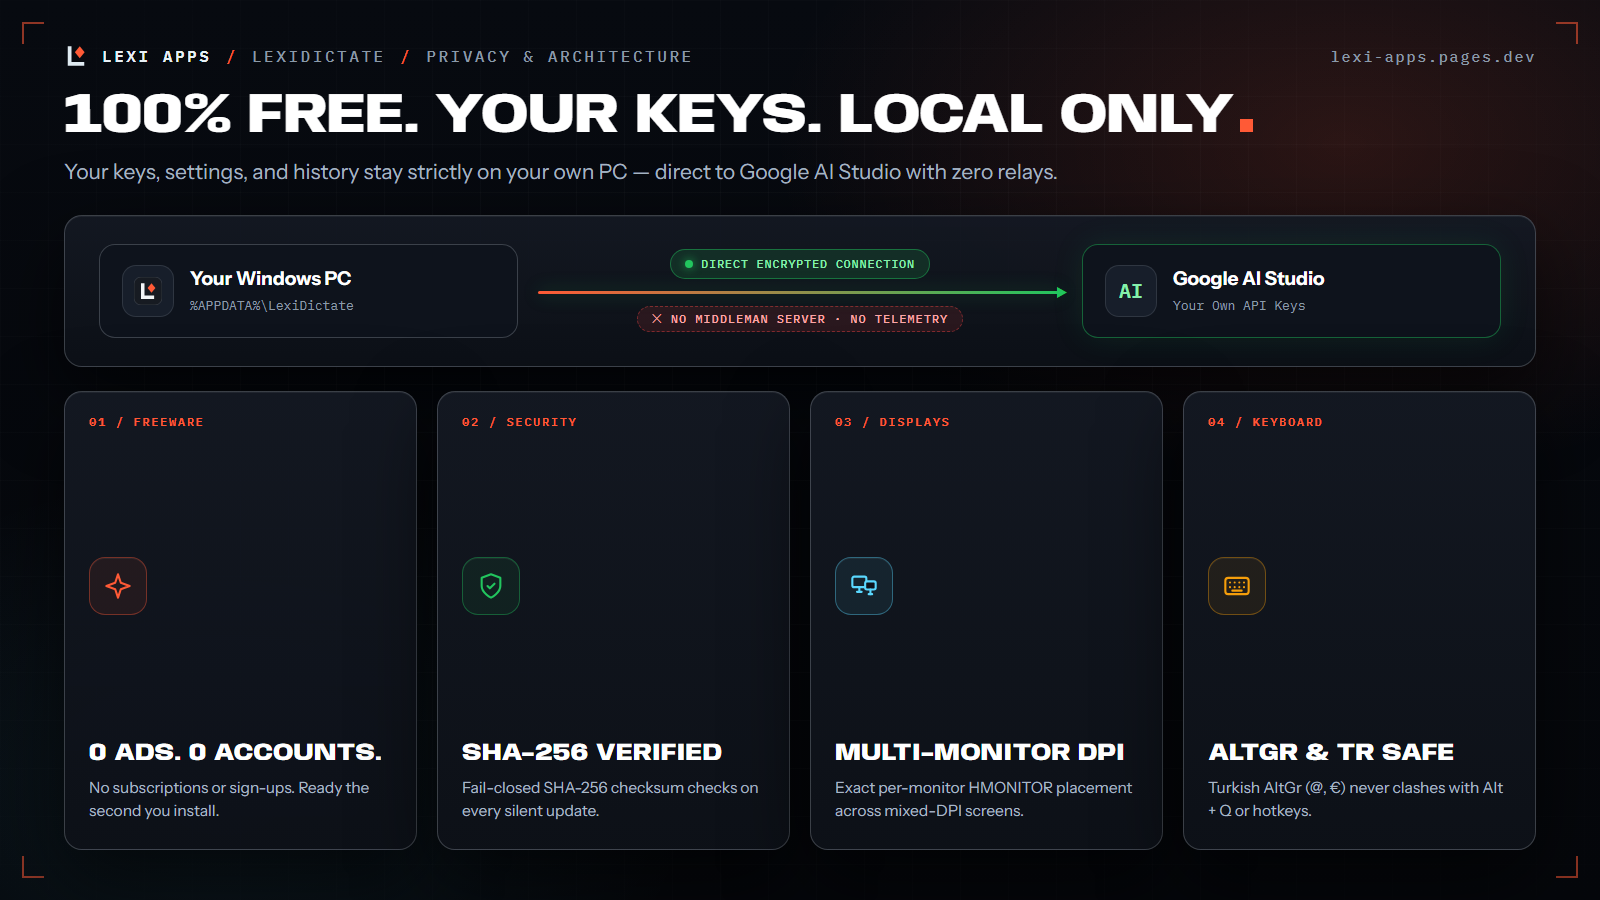
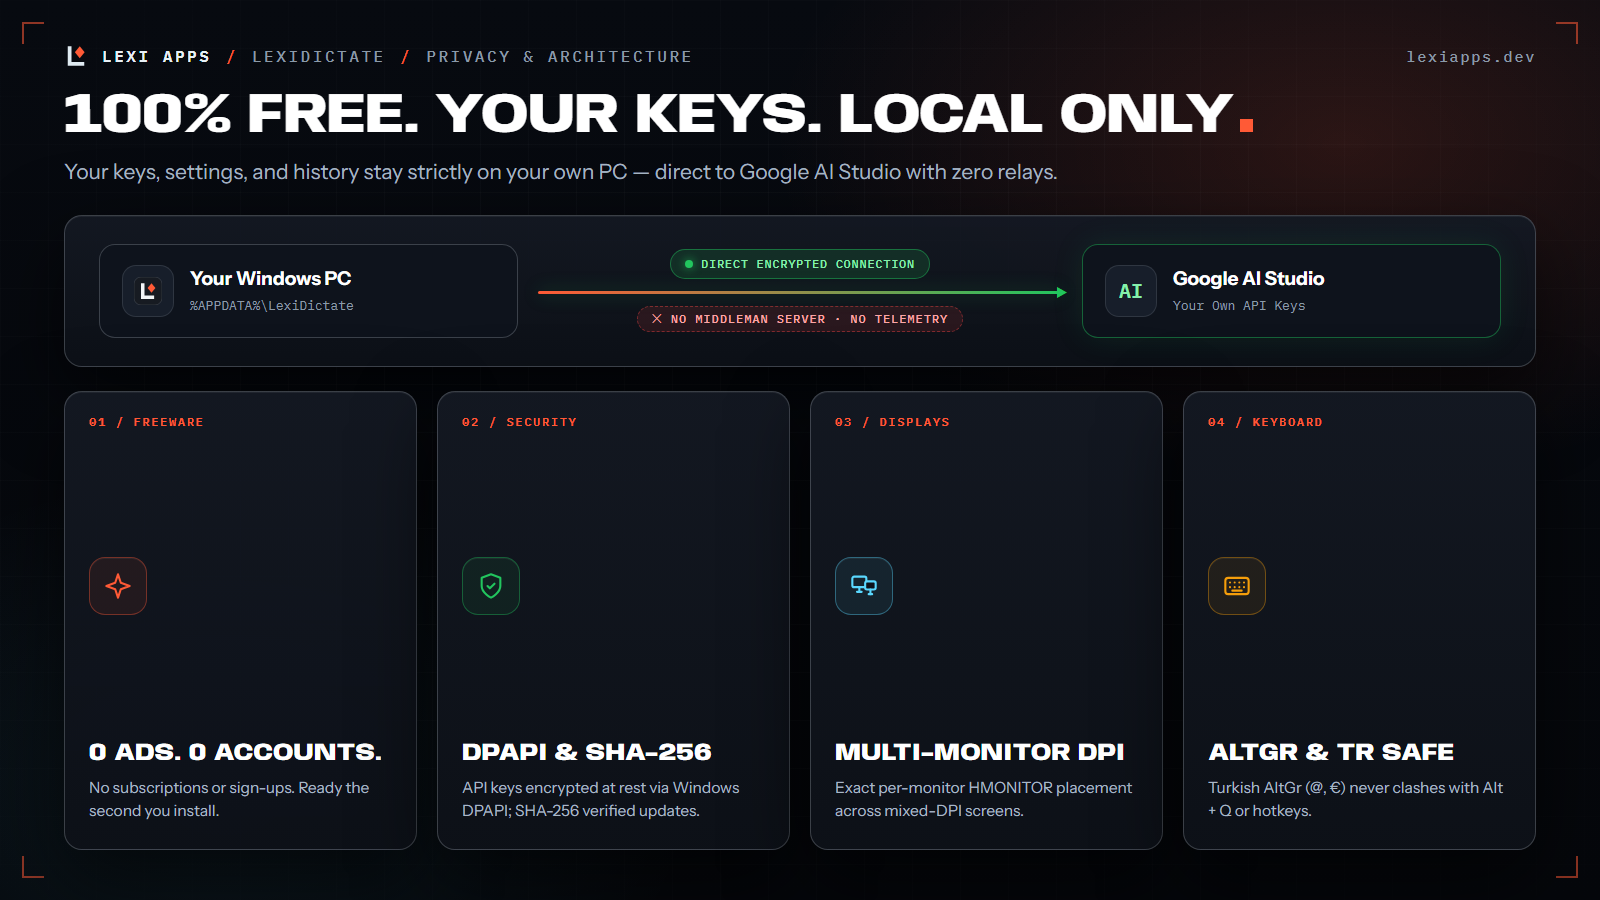
Update README and showcase assets for v0.8.7 and lexiapps.dev

Changed region(s): [[0.2812, 0.8089, 0.4688, 0.9333], [0.875, 0.0622, 0.9062, 0.0933]]

diff --git a/README.md b/README.md
@@ -9,20 +9,20 @@
 [![Latest release](https://img.shields.io/github/v/release/lexi-apps/lexi-dictate?style=flat-square&label=release&color=2ea043)](https://github.com/lexi-apps/lexi-dictate/releases/latest)
 [![Downloads](https://img.shields.io/github/downloads/lexi-apps/lexi-dictate/total?style=flat-square&color=0969da)](https://github.com/lexi-apps/lexi-dictate/releases)
 ![Platform](https://img.shields.io/badge/platform-Windows%2010%20%7C%2011%20x64-0078d4?style=flat-square)
-[![Website](https://img.shields.io/badge/website-lexi--apps.pages.dev-ff5a36?style=flat-square)](https://lexi-apps.pages.dev/lexi-dictate/)
+[![Website](https://img.shields.io/badge/website-lexiapps.dev-ff5a36?style=flat-square)](https://lexiapps.dev/lexi-dictate/)
 [![Discord](https://img.shields.io/badge/discord-community-5865F2?style=flat-square&logo=discord&logoColor=white)](https://discord.gg/HN9eWThUn2)
 [![Patreon](https://img.shields.io/badge/patreon-support-f96854?style=flat-square&logo=patreon&logoColor=white)](https://www.patreon.com/cw/LexiApps)
 [![Buy Me a Coffee](https://img.shields.io/badge/buy%20me%20a%20coffee-tip-ffdd00?style=flat-square&logo=buymeacoffee&logoColor=black)](https://buymeacoffee.com/lexiapps)
 
-### [Download LexiDictate 0.8.6 for Windows](https://github.com/lexi-apps/lexi-dictate/releases/latest)
+### [Download LexiDictate 0.8.7 for Windows](https://github.com/lexi-apps/lexi-dictate/releases/latest)
 
-<sub>Run <code>LexiDictate-Setup-0.8.6.exe</code> · Windows 10 & 11 (64-bit) · 100% Freeware · Bring your own Gemini API key</sub>
+<sub>Run <code>LexiDictate-Setup-0.8.7.exe</code> · Windows 10 & 11 (64-bit) · 100% Freeware · Bring your own Gemini API key</sub>
 
 <br>
 
 <img src="assets/cards/lexidictate-demo.gif" width="880" alt="LexiDictate — Interactive Voice Dictation & Alt + Q Selection Translate Demo">
 
-<sub>~14-second interactive highlight — live dictation &amp; Alt + Q selection translate · Click any feature card below for full 1600×900 detail · <a href="https://lexi-apps.pages.dev/lexi-dictate/">Watch full 31s 60fps showcase on website ↗</a></sub>
+<sub>~14-second interactive highlight — live dictation &amp; Alt + Q selection translate · Click any feature card below for full 1600×900 detail · <a href="https://lexiapps.dev/lexi-dictate/">Watch full 31s 60fps showcase on website ↗</a></sub>
 
 </div>
 
@@ -64,7 +64,7 @@
 
 ## Quick Start (30 Seconds)
 
-1. Download and run **`LexiDictate-Setup-0.8.6.exe`** from the [latest release](https://github.com/lexi-apps/lexi-dictate/releases/latest) *(if SmartScreen prompts, choose **More info → Run anyway**)*.
+1. Download and run **`LexiDictate-Setup-0.8.7.exe`** from the [latest release](https://github.com/lexi-apps/lexi-dictate/releases/latest) *(if SmartScreen prompts, choose **More info → Run anyway**)*.
 2. Get a free API key from [Google AI Studio](https://aistudio.google.com/apikey) and paste it into **API Key Pool**.
 3. Click any text box, hold **`Right Alt`**, speak, and release.
 
@@ -123,9 +123,9 @@ Strictly locally in `%APPDATA%\LexiDictate\config.json`, with your API key value
 [![Support Lexi on Patreon](https://img.shields.io/badge/Support%20Lexi%20on-Patreon-f96854?style=flat-square&logo=patreon&logoColor=white)](https://www.patreon.com/cw/LexiApps)
 [![Buy Me a Coffee](https://img.shields.io/badge/Buy%20Me%20a-Coffee-ffdd00?style=flat-square&logo=buymeacoffee&logoColor=black)](https://buymeacoffee.com/lexiapps)
 
-- **Website:** [lexi-apps.pages.dev/lexi-dictate](https://lexi-apps.pages.dev/lexi-dictate/)
+- **Website:** [lexiapps.dev/lexi-dictate](https://lexiapps.dev/lexi-dictate/)
 - **Discord:** [discord.gg/HN9eWThUn2](https://discord.gg/HN9eWThUn2)
-- **More Apps:** [Lexi Download Manager](https://github.com/lexi-apps/lexi-download-manager) · [Lexi Ren'Py Translator](https://github.com/lexi-apps/lexi-renpy-translator)
+- **More Apps:** [Lexi Download Manager](https://github.com/lexi-apps/lexi-download-manager) · [Lexi Game Translator](https://github.com/lexi-apps/lexi-renpy-translator)
 - **Contact:** `lexiapps@protonmail.com` · Freeware (proprietary source)
 
 ---
